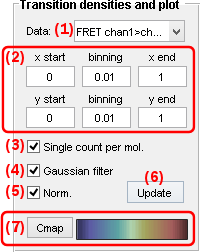
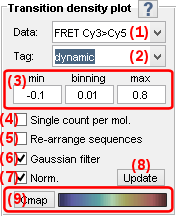
Update doc with new "Subroup selection" functionality in TA

diff --git a/docs/transition-analysis/panels/panel-transition-density-plot.md b/docs/transition-analysis/panels/panel-transition-density-plot.md
@@ -15,7 +15,7 @@ Transition density plot (TDP) is the first panel of module Transition analysis.
 
 Use this panel to select data and build the TDP.
 
-<a class="plain" href="../../assets/images/gui/TA-panel-transition-density-plot.png"><img src="../../assets/images/gui/TA-panel-transition-density-plot.png" style="max-width:200px;"></a>
+<a class="plain" href="../../assets/images/gui/TA-panel-transition-density-plot.png"><img src="../../assets/images/gui/TA-panel-transition-density-plot.png" style="max-width:176px;"></a>
 
 ## Panel components
 {: .no_toc .text-delta }
@@ -39,20 +39,59 @@ Supported data are:
 
 ---
 
+## Molecule subgroup list
+
+Use this list to select the molecule subgroup to be analyzed in Transition analysis.
+
+Molecule subgroups are defined by the molecule tags that are created and assigned to molecules in module 
+[Trace processing](../../trace-processing.html) exclusively.
+
+Molecule tags are created in 
+[Molecule selection](../../trace-processing/functionalities/tm-overview.html#molecule-selection) and can be assigned to individual molecules in 
+[Molecule selection](../../trace-processing/functionalities/tm-overview.html#molecule-selection) or in 
+[Molecule status](../../trace-processing/panels/panel-sample-management.html#molecule-status).
+
+Molecule tags can also be assigned to groups of molecules defined by specific data ranges with 
+[Automatic sorting](../../trace-processing/functionalities/tm-automatic-sorting.html#tm-menu).
+
+
+---
+
 ## Bounds and bin size
 
 Use this interface to define TDP limits and sorting intervals.
 
-<img src="../../assets/images/gui/TA-panel-transition-density-plot-axis.png" style="max-width:168px;">
+<img src="../../assets/images/gui/TA-panel-transition-density-plot-axis.png" style="max-width:153px;">
 
-TDP limits define the range of data used in the analysis and the bin size, the intervals used to sort data in the transition density plot (TDP).
+TDP limits define the range of data used in the analysis, and the bin size defines the intervals used to sort data in the transition density plot (TDP).
 
-The lower x- and y-limits are respectively set in **(a)** and **(d)**, the higher limits in **(c)** and **(f)** and the x- and y- bin sizes in **(b)** and **(e)**.
+Limits and bin sizes are identical for the x- and y-axis.
+The lower limit is set in **(a)**, the bin size in **(b)** and the higher limit in **(c)**.
 
 For more information about the influence of limits and bin size on the analysis, please refer to 
 [Build transition density plot](../workflow.html#build-transition-density-plot) in Transition analysis workflow.
 
-<u>default</u>: For ratio data, default x- and y-limits are set to [-0.2;1.2] and the bin size to 0.01
+<u>default</u>: For ratio data, default limits are set to [-0.2;1.2] and the bin size to 0.01
+
+
+---
+
+## Re-arrange state sequences
+
+Activate this option to re-build state sequences only with states visible the TDP.
+
+In the regular building process, states that lay out-of-TDP-range are ignored from the state sequences creating time gaps. 
+
+Sequence re-arrangement allows to fill these time gaps by prolonging the duration of states preceding the outliers in the sequence.
+If no state is preceding the outliers, the duration of the following states in the sequence is prolonged.
+
+To work with initial state durations, and thus, with time-gapped state sequences, deactivate this option.
+
+For more information about sequence re-arrangement, please refer to 
+[Build transition density plot](../workflow.html#build-transition-density-plot) in Transition analysis workflow.
+
+**Note:** *Sequence re-arrangement has an effect on transition densities used in clustering and dwell time histograms used in *
+[State transition rates](panel-state-transition-rates.html).
 
 
 ---
@@ -68,8 +107,8 @@ To build the TDP with absolute transition counts and obtain the genuine transiti
 For more information about the two types of transition counting, please refer to 
 [Build transition density plot](../workflow.html#build-transition-density-plot) in Transition analysis workflow.
 
-**Note:** *Transition counts in the TDP are used only for clustering and have no effect on the dwell time histograms used in 
-[State transition rates](panel-state-transition-rates.html).*
+**Note:** *Transition counts in the TDP are used only for clustering and have no effect on the dwell time histograms used in *
+[State transition rates](panel-state-transition-rates.html).
 
 
 ---
@@ -104,15 +143,9 @@ In this case, counts are normalized by the sum for display only, and are color-c
 Press 
 ![Update](../../assets/images/gui/TA-but-update.png "Update") to build the TDP new, using options set in 
 [Bounds and bin size](#bounds-and-bin-size), 
-[Transition count](#transition-count) and 
+[Transition count](#transition-count),
+[Re-arange sequences](#re-arrange-sequences) and 
 [Gaussian filter](#gaussian-filter).
-
-Setting bounds to the TDP induces the exclusion of out-of-ranges states from the building process. 
-To later work with state trajectories conformed to the TDP limits, state trajectories can be readjusted by suppressing these outliers and linking the neighbouring states together.
-This will have an effect on the dwell time distributions used in 
-[State transition rates](panel-state-transition-rates.html).
-
-<img src="../../assets/images/gui/TA-panel-transition-density-plot-rearrange.png" style="max-width:494px;">
 
 For more information about how TDPs are built, please refer to 
 [Build transition density plot](../workflow.html#build-transition-density-plot) in Transitions analysis workflow.

diff --git a/docs/transition-analysis/workflow.md b/docs/transition-analysis/workflow.md
@@ -82,6 +82,9 @@ The bin size has a substantial influence on the cluster shapes: large bins will 
 TDP boundaries are important as they define the range of data considered for analysis.
 Large data ranges can include outliers that would bias the state analysis and narrow ranges can exclude relevant contribution for state transition rate analysis.
 
+When setting bounds to the TDP, the states laying out-of-TDP-ranges are ignored from the building process. 
+To later work with state trajectories and dwell times consistent with what is seen in the TDP, state trajectories can be re-arranged by suppressing these outliers and linking the neighbouring states together.
+
 TDP limits and bin size have to be carefully chosen in order to make transition clusters visible and sufficiently separated.
 
 <a href="../assets/images/figures/TA-workflow-scheme-bin-size.png" title="Effect of bin size on TDP"><img src="../assets/images/figures/TA-workflow-scheme-bin-size.png" alt="Effect of bin size on TDP"></a>
@@ -103,10 +106,14 @@ To build the TDP:
 1. Select a data type in the 
    [Data list](panels/panel-transition-density-plot.html#data-list)
      
+1. Select a data type in the 
+   [Molecule subgroup list](panels/panel-transition-density-plot.html#molecule-subgroup-list)
+     
 1. Set parameters:
      
    [Bounds and bin size](panels/panel-transition-density-plot.html#bounds-and-bin-size)  
    [Transition count](panels/panel-transition-density-plot.html#transition-count)  
+   [Re-arrange sequences](panels/panel-transition-density-plot.html#re-arrange-sequences)  
    [Gaussian filter](panels/panel-transition-density-plot.html#gaussian-filter)  
      
 1. Update the TDP and display by pressing 
@@ -244,9 +251,6 @@ Additionally, TDP, dwell time histograms, analysis results and analysis paramete
 To save project modifications:
 
 {: .procedure }
-1. Select the data to export in the 
-   [Data list](panels/panel-transition-density-plot.html#data-list)  
-     
 1. Save modifications to the 
    [.mash file](../output-files/mash-mash-project.html) by pressing 
    ![Save](../assets/images/gui/TA-but-save.png "Save") and overwriting existing file.  
@@ -254,6 +258,12 @@ To save project modifications:
 To export data to files:
 
 {: .procedure }
+1. Select the data to export in the 
+   [Data list](panels/panel-transition-density-plot.html#data-list)  
+     
+1. Select the molecule subgroup to export in the 
+   [Molecule subgroup list](panels/panel-transition-density-plot.html#molecule-subgroup-list)  
+     
 1. Open export options by pressing 
    ![Export](../../assets/images/gui/TA-but-export.png "Export") and set the options as desired; please refer to 
    [Set export options](functionalities/set-export-options.html) for help.

diff --git a/docs/output-files/tdp-transition-density-plot.md b/docs/output-files/tdp-transition-density-plot.md
@@ -43,6 +43,8 @@ Data types supported in transition density plot files are:
 * `FRET[D]to[A]`: FRET from donor emitter detected in channel indexed `[D]` to acceptor emitter detected in channel indexed `[A]`
 * `S[Eee]`: stoichiometry of emitter detected in channel labelled `[Eee]`
 
+A second extension `_[Ttt]` is added to the data type `[Ddd]` if a particular subgroup of molecules is analyzed, with `[Ttt]` the corresponding molecule tag.
+
 
 ---
 

diff --git a/docs/output-files/txt-transition-density-coordinates.md b/docs/output-files/txt-transition-density-coordinates.md
@@ -41,6 +41,7 @@ Data types supported in transition density coordinates files are:
 * `FRET[D]to[A]`: FRET from donor emitter detected in channel indexed `[D]` to acceptor emitter detected in channel indexed `[A]`
 * `S[Eee]`: stoichiometry of emitter detected in channel labelled `[Eee]`
 
+The extension `_[Ttt]` is added to the data type `[Ddd]` if a particular subgroup of molecules is analyzed, with `[Ttt]` the corresponding molecule tag.
 
 ---
 

diff --git a/docs/output-files/clst-transition-density-clusters.md b/docs/output-files/clst-transition-density-clusters.md
@@ -43,6 +43,8 @@ Data types supported in transition density cluster files are:
 * `FRET[D]to[A]`: FRET from donor emitter detected in channel indexed `[D]` to acceptor emitter detected in channel indexed `[A]`
 * `S[Eee]`: stoichiometry of emitter detected in channel labelled `[Eee]`
 
+The extension `_[Ttt]` is added to the data type `[Ddd]` if a particular subgroup of molecules is analyzed, with `[Ttt]` the corresponding molecule tag.
+
 
 ---
 

diff --git a/docs/output-files/hdt-dwelltime-histogram.md b/docs/output-files/hdt-dwelltime-histogram.md
@@ -43,6 +43,7 @@ Data types supported in dwell time histogram files are:
 * `FRET[D]to[A]`: FRET from donor emitter detected in channel indexed `[D]` to acceptor emitter detected in channel indexed `[A]`
 * `S[Eee]`: stoichiometry of emitter detected in channel labelled `[Eee]`
 
+The extension `_[Ttt]` is added to the data type `[Ddd]` if a particular subgroup of molecules is analyzed, with `[Ttt]` the corresponding molecule tag.
 
 ---
 

diff --git a/docs/output-files/fit-dwelltime-fit.md b/docs/output-files/fit-dwelltime-fit.md
@@ -43,6 +43,7 @@ Data types supported in dwell time fit files are:
 * `FRET[D]to[A]`: FRET from donor emitter detected in channel indexed `[D]` to acceptor emitter detected in channel indexed `[A]`
 * `S[Eee]`: stoichiometry of emitter detected in channel labelled `[Eee]`
 
+The extension `_[Ttt]` is added to the data type `[Ddd]` if a particular subgroup of molecules is analyzed, with `[Ttt]` the corresponding molecule tag.
 
 ---
 
